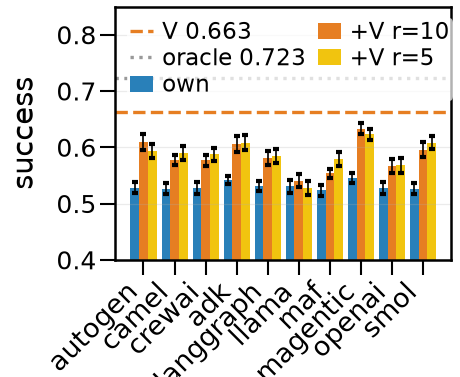
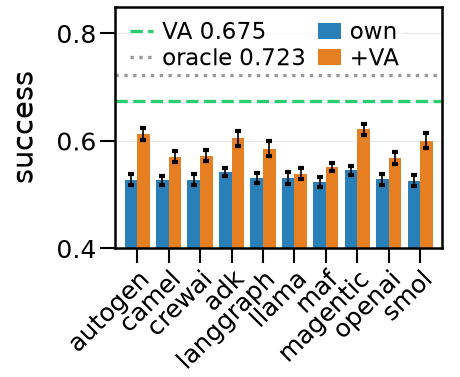
Figure 1 right panel: MIDIAN-VA's cohort instead of MIDIAN-V's (data switched, not relabelled), drop the r=5 bar (VA ran r=10 only), fix the clipped x labels and legend

diff --git a/scripts/paper_figs.py b/scripts/paper_figs.py
@@ -230,18 +230,18 @@ def F1_energy():
 
 
 def F1_shortlist():
-    d = rows("fw_live_n1000", "fw_live_n1000_verified"); d = d[d.declared_source == "self_described"] if "declared_source" in d else d
-    cols = [f + s for f in FWS for s in ("", "[r=10,retrieval=midian]", "[r=5,retrieval=midian]")] + ["midian_v", "oracle"]
+    d = rows("fw_live_n1000", "fw_live_n1000_verified_va"); d = d[d.declared_source == "self_described"] if "declared_source" in d else d
+    cols = [f + s for f in FWS for s in ("", "[r=10,retrieval=midian_va]")] + ["midian_va", "oracle"]
     w = d[d.label.isin(cols)].pivot_table(index=["dist", "beta", "seed"], columns="label", values="success")[cols].dropna()
-    fig = plt.figure(figsize=(cm(3.9), cm(3.2)), layout="none"); ax = fig.add_axes([0.25, 0.31, 0.73, 0.67]); x = np.arange(len(FWS)); recs = []
-    for off, suf, lab, c in ((-.28, "", "own", "#2980b9"), (0, "[r=10,retrieval=midian]", "+V r=10", "#e67e22"), (.28, "[r=5,retrieval=midian]", "+V r=5", "#f1c40f")):
+    fig = plt.figure(figsize=(cm(3.9), cm(3.2)), layout="none"); ax = fig.add_axes([0.25, 0.34, 0.71, 0.64]); x = np.arange(len(FWS)); recs = []
+    for off, suf, lab, c in ((-.2, "", "own", "#2980b9"), (.2, "[r=10,retrieval=midian_va]", "+VA", "#e67e22")):
         vals = [mean_ci(w[f + suf]) for f in FWS]
-        ax.bar(x + off, [v[0] for v in vals], .28, color=c, label=lab, yerr=[[v[0] - v[1] for v in vals], [v[2] - v[0] for v in vals]], capsize=0.8, error_kw=dict(elinewidth=0.4))
-        for f, v in zip(FWS, vals): recs.append(dict(framework=f, arm=lab, mean=v[0], ci_lo=v[1], ci_hi=v[2], units=v[3], seeds=v[4], grid="fw_live_n1000 / fw_live_n1000_verified"))
-    mv, orc = mean_ci(w["midian_v"]), mean_ci(w["oracle"])
-    ax.axhline(mv[0], color=COLOR["midian_v"], ls="--", lw=0.8, label=f"V {mv[0]:.3f}"); ax.axhline(orc[0], color=COLOR["oracle"], ls=":", lw=0.8, label=f"oracle {orc[0]:.3f}")
-    recs += [dict(framework="", arm="midian_v", mean=mv[0], ci_lo=mv[1], ci_hi=mv[2], units=mv[3], seeds=mv[4], grid="fw_live_n1000"), dict(framework="", arm="oracle", mean=orc[0], ci_lo=orc[1], ci_hi=orc[2], units=orc[3], seeds=orc[4], grid="fw_live_n1000")]
-    ax.set_xticks(x); ax.set_xticklabels([ABBR[f] for f in FWS], rotation=45, ha="right", fontsize=6.5); ax.set_ylim(0.40, 0.85); ax.set_ylabel("success", fontsize=7); ax.tick_params(axis="y", labelsize=6, pad=1); ax.tick_params(axis="x", pad=1)
+        ax.bar(x + off, [v[0] for v in vals], .4, color=c, label=lab, yerr=[[v[0] - v[1] for v in vals], [v[2] - v[0] for v in vals]], capsize=0.8, error_kw=dict(elinewidth=0.4))
+        for f, v in zip(FWS, vals): recs.append(dict(framework=f, arm=lab, mean=v[0], ci_lo=v[1], ci_hi=v[2], units=v[3], seeds=v[4], grid="fw_live_n1000 / fw_live_n1000_verified_va"))
+    mv, orc = mean_ci(w["midian_va"]), mean_ci(w["oracle"])
+    ax.axhline(mv[0], color=COLOR["midian_va"], ls="--", lw=0.8, label=f"VA {mv[0]:.3f}"); ax.axhline(orc[0], color=COLOR["oracle"], ls=":", lw=0.8, label=f"oracle {orc[0]:.3f}")
+    recs += [dict(framework="", arm="midian_va", mean=mv[0], ci_lo=mv[1], ci_hi=mv[2], units=mv[3], seeds=mv[4], grid="fw_live_n1000"), dict(framework="", arm="oracle", mean=orc[0], ci_lo=orc[1], ci_hi=orc[2], units=orc[3], seeds=orc[4], grid="fw_live_n1000")]
+    ax.set_xticks(x); ax.set_xticklabels([ABBR[f] for f in FWS], rotation=45, ha="right", fontsize=6.0, rotation_mode="anchor"); ax.set_xlim(-0.7, len(FWS) - 0.3); ax.set_ylim(0.40, 0.85); ax.set_ylabel("success", fontsize=7); ax.tick_params(axis="y", labelsize=6, pad=1); ax.tick_params(axis="x", pad=1)
     ax.grid(axis="y", alpha=.25, lw=0.3); ax.legend(loc="upper left", ncol=2, fontsize=5.5, frameon=True, framealpha=0.7, edgecolor="none", handlelength=1.0, labelspacing=0.15, columnspacing=0.5, borderpad=0.15, handletextpad=0.4); csv("F1_shortlist_lift_n1000", recs); save(fig, "F1_shortlist_lift_n1000")
 
 
